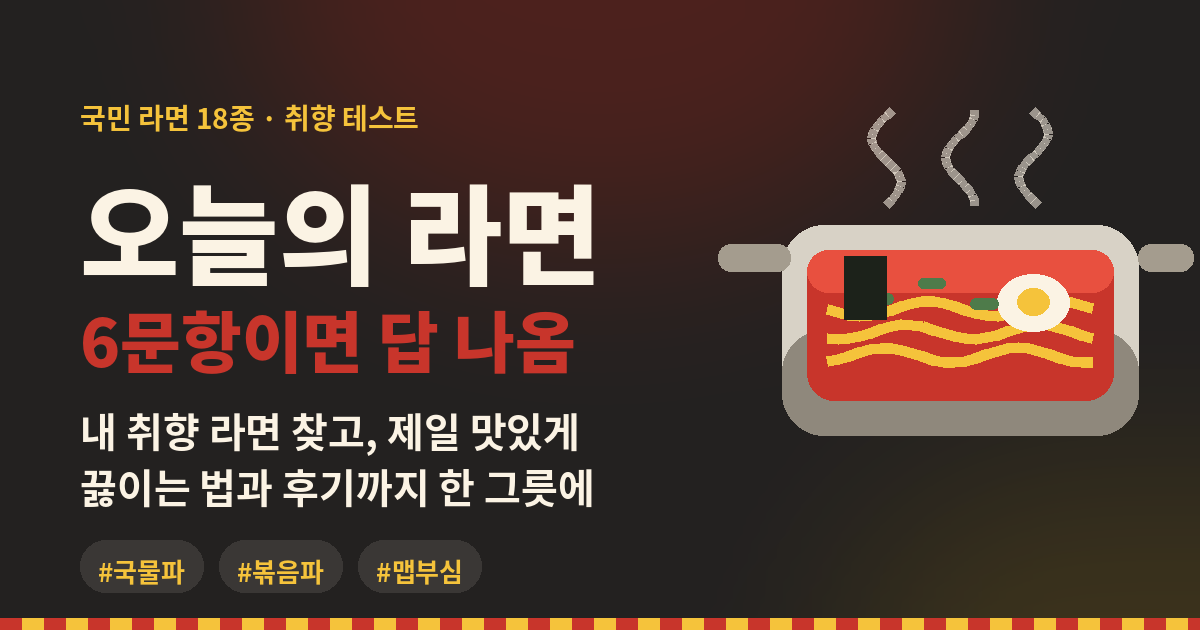
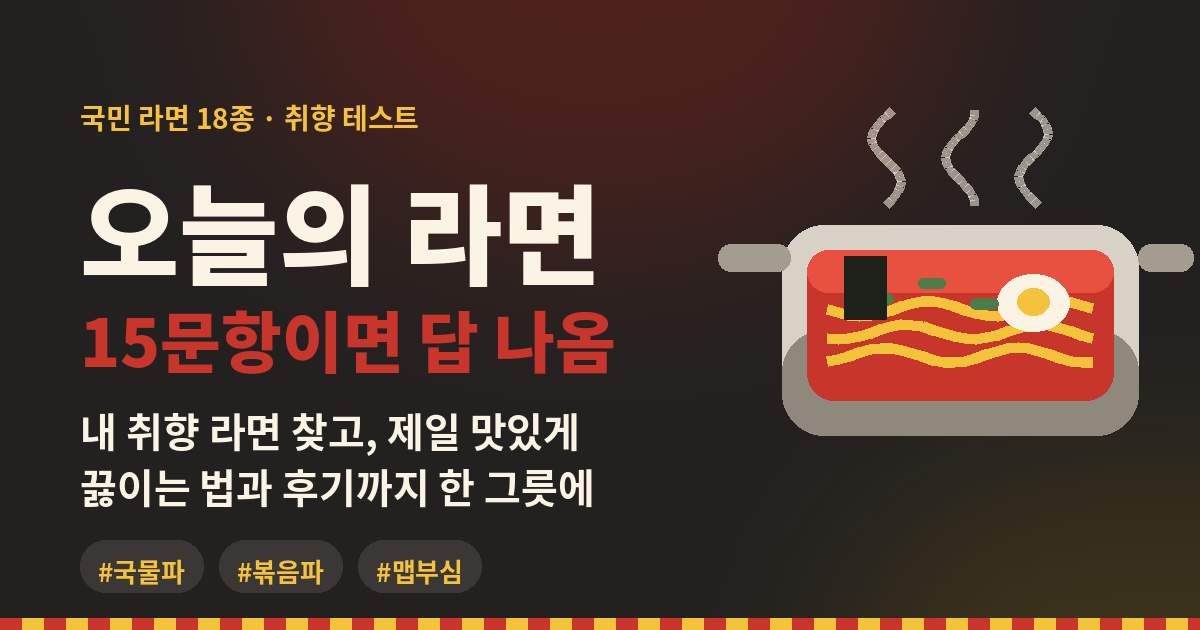
Add files via upload

Changed region(s): [[0.0617, 0.4825, 0.5242, 0.6032]]

diff --git a/index.html b/index.html
@@ -4,18 +4,18 @@
 <meta charset="UTF-8">
 <meta name="viewport" content="width=device-width, initial-scale=1.0">
 <title>오늘의 라면 — 내 취향 라면 찾기</title>
-<meta name="description" content="6가지 질문으로 찾는 내 취향 라면. 맛있게 끓이는 법과 꿀조합, 후기까지 한 번에.">
+<meta name="description" content="15가지 질문으로 찾는 내 취향 라면. 맛있게 끓이는 법과 꿀조합, 후기까지 한 번에.">
 
 <!-- 공유(OG) 메타 -->
 <meta property="og:type" content="website">
-<meta property="og:title" content="오늘의 라면 — 6문항이면 답 나옴">
+<meta property="og:title" content="오늘의 라면 — 15문항이면 답 나옴">
 <meta property="og:description" content="국민 라면 18종 취향 테스트. 내 라면 찾고, 제일 맛있게 끓이는 법과 후기까지 한 그릇에 🍜">
 <meta property="og:url" content="https://jsh0529-beep.github.io/ramen/">
 <meta property="og:image" content="https://jsh0529-beep.github.io/ramen/og.png">
 <meta property="og:image:width" content="1200">
 <meta property="og:image:height" content="630">
 <meta name="twitter:card" content="summary_large_image">
-<meta name="twitter:title" content="오늘의 라면 — 6문항이면 답 나옴">
+<meta name="twitter:title" content="오늘의 라면 — 15문항이면 답 나옴">
 <meta name="twitter:description" content="국민 라면 18종 취향 테스트. 내 라면 찾고, 맛있게 끓이는 법과 후기까지 🍜">
 <meta name="twitter:image" content="https://jsh0529-beep.github.io/ramen/og.png">
 
@@ -219,7 +219,7 @@ footer{margin-top:34px;text-align:center;font-size:11px;color:rgba(251,243,228,.
   <section class="screen on" id="scr-intro">
     <div class="hero">
       <div class="steam">지금 판매 중인 국민 라면 18종</div>
-      <h2>오늘 뭐 끓이지?<br><span class="red">6문항</span>이면 답 나옴</h2>
+      <h2>오늘 뭐 끓이지?<br><span class="red">15문항</span>이면 답 나옴</h2>
       <p>국물파? 볶음파? 매운맛 한계는 어디까지?<br>취향을 고르면 딱 맞는 라면과<br>제일 맛있게 끓이는 법까지 알려드려요.</p>
       <div class="pot-visual">
         <div class="steam-lines">〜 〜 〜</div>
@@ -393,7 +393,11 @@ const RAMEN = [
   combo:"<b>닭가슴살 or 계란</b>을 더하면 든든한 한 끼. 김치보다 <b>단무지</b>가 의외로 잘 어울려요."}
 ];
 
-/* ═══════════ 퀴즈 ═══════════ */
+/* 면발 굵기 속성 */
+const NOODLE_TYPE={neoguri:'thick',jjam:'thick',chapa:'thick',bibim:'thin',teumsae:'thin'};
+RAMEN.forEach(r=>r.noodle=NOODLE_TYPE[r.id]||'mid');
+
+/* ═══════════ 퀴즈 (15문항) ═══════════ */
 const QUESTIONS = [
  {t:"라면 하면 떠오르는 그 장면, 당신의 라면은?",
   o:[
@@ -421,18 +425,73 @@ const QUESTIONS = [
    {e:"🦐", x:"시원한 해물·짬뽕 스타일", w:{base:{seafood:3}}},
    {e:"🧀", x:"짜장·크림처럼 고소하고 꾸덕한 맛", w:{base:{black:2,creamy:2}}}
   ]},
+ {t:"면발은 어떤 스타일이 좋아요?",
+  o:[
+   {e:"🐍", x:"오동통 굵은 면 — 씹는 맛이 있어야지", w:{noodle:{thick:2}}},
+   {e:"〰", x:"표준 면발 — 익숙한 그 굵기", w:{noodle:{mid:2}}},
+   {e:"🧵", x:"가늘고 탱글한 면 — 후루룩 넘어가는 맛", w:{noodle:{thin:2}}}
+  ]},
+ {t:"라면 국물, 마지막엔 어떻게 해요?",
+  o:[
+   {e:"🥣", x:"국물 원샷 — 남기는 건 예의가 아니지", w:{form:{soup:1},rich:2}},
+   {e:"🥄", x:"몇 숟갈만 — 짜니까 적당히", w:{rich:3}},
+   {e:"🚫", x:"면만 건져 먹는 파 — 소스면이 낫겠다", w:{form:{stir:1},rich:4}}
+  ]},
+ {t:"라면 속 계란, 당신의 스타일은?",
+  o:[
+   {e:"🥚", x:"반숙 퐁당 — 노른자는 터뜨리지 마", w:{form:{soup:1}}},
+   {e:"🌪", x:"휘휘 풀어서 계란탕처럼", w:{form:{soup:1},base:{savory:1}}},
+   {e:"🍳", x:"계란후라이 따로 부쳐서 올리기", w:{form:{stir:1}}},
+   {e:"✋", x:"노계란 — 라면 본연의 맛으로", w:{era:{classic:1}}}
+  ]},
+ {t:"라면에 밥, 어떻게 생각해요?",
+  o:[
+   {e:"🍚", x:"당연히 말아야지 — 국물밥이 완성형", w:{form:{soup:2},rich:1}},
+   {e:"🍙", x:"볶음면엔 밥 비비기 — 소스 한 방울도 안 남겨", w:{form:{stir:2},rich:1}},
+   {e:"🙅", x:"면은 면, 밥은 밥 — 섞지 않는다", w:{}}
+  ]},
+ {t:"치즈 추가에 대한 입장은?",
+  o:[
+   {e:"🧀", x:"무조건 추가 — 치즈는 진리", w:{base:{creamy:2}}},
+   {e:"🤏", x:"매운 라면에만 살짝", w:{spice:4}},
+   {e:"❌", x:"국물 라면에 치즈라니, 클래식을 지켜", w:{era:{classic:1},base:{spicy:1}}}
+  ]},
+ {t:"한여름 무더위, 그래도 라면이라면?",
+  o:[
+   {e:"🧊", x:"얼음물에 헹군 비빔면 — 여름엔 이거지", w:{form:{bibim:2},base:{sweet:2}}},
+   {e:"💦", x:"땀 흘리며 뜨거운 국물 — 이열치열", w:{form:{soup:2}}},
+   {e:"🍳", x:"불 앞은 싫고… 볶음면으로 간단히", w:{form:{stir:1}}}
+  ]},
+ {t:"편의점 라면 코너 앞, 당신의 손은?",
+  o:[
+   {e:"🆕", x:"신상 코너 직행 — 안 먹어본 게 죄", w:{era:{new:2}}},
+   {e:"🏆", x:"늘 먹던 그 라면 — 모험은 사양", w:{era:{classic:2}}},
+   {e:"👀", x:"1+1 행사 상품 — 실속이 먼저", w:{}}
+  ]},
+ {t:"해외에서 난리라는 K-라면, 어때요?",
+  o:[
+   {e:"🌍", x:"불닭 시리즈 — 세계인이 우는 그 맛", w:{base:{chicken:1,creamy:1},spice:1}},
+   {e:"🇰🇷", x:"그래도 원조는 국물 라면이지", w:{form:{soup:1},era:{classic:1}}},
+   {e:"🤔", x:"유행은 유행, 내 입맛은 내 입맛", w:{}}
+  ]},
+ {t:"라면 먹기 제일 좋은 시간은?",
+  o:[
+   {e:"🌅", x:"쓰린 아침 해장 — 시원한 국물로 부활", w:{form:{soup:2},base:{spicy:1},rich:2}},
+   {e:"☀", x:"바쁜 점심 한 끼 — 든든하고 빠르게", w:{rich:3}},
+   {e:"🌙", x:"자정의 야식 — 오늘만 산다", w:{rich:4,spice:1}}
+  ]},
  {t:"신상 vs 클래식, 당신의 선택은?",
   o:[
    {e:"🏆", x:"검증된 스테디셀러 — 실패 없는 게 최고", w:{era:{classic:2}}},
    {e:"✨", x:"신상·화제작 먼저 도전하는 얼리어답터", w:{era:{new:3}}},
    {e:"🤷", x:"맛만 있으면 뭐든 OK", w:{}}
   ]},
- {t:"오늘 라면 먹는 상황은?",
+ {t:"마지막! 오늘의 기분은?",
   o:[
-   {e:"🌙", x:"야식 — 죄책감보다 맛이 먼저", w:{rich:1,spice:1}},
-   {e:"🍺", x:"해장 — 속 풀리는 시원한 국물", w:{form:{soup:2},base:{spicy:1}}},
-   {e:"👨👩👧", x:"가족 식사 — 다 같이 먹을 수 있는 맛", w:{spice:-2,era:{classic:1}}},
-   {e:"🎯", x:"혼밥 도전 — 궁금했던 그 라면 정복", w:{era:{new:2},spice:1}}
+   {e:"🫂", x:"위로가 필요해 — 부드럽고 따뜻한 게 좋아", w:{spice:1,base:{savory:1}}},
+   {e:"⚡", x:"스트레스 폭발 — 화끈하게 풀어야지", w:{spice:5}},
+   {e:"🎯", x:"새로운 자극이 필요해", w:{era:{new:2}}},
+   {e:"📼", x:"옛날 생각나는 날 — 추억의 맛이 그리워", w:{era:{classic:2},base:{savory:1}}}
   ]}
 ];
 const COOK_STAGES = [
@@ -440,20 +499,21 @@ const COOK_STAGES = [
  {ic:"🍜", lb:"면 넣기"},{ic:"🥚", lb:"계란 투하"},{ic:"🥢", lb:"완성!"}
 ];
 
-let qi=0, score={form:{soup:0,stir:0,bibim:0}, spice:[], rich:[], base:{}, era:{classic:0,new:0}};
+let qi=0, score={form:{soup:0,stir:0,bibim:0}, spice:[], rich:[], base:{}, era:{classic:0,new:0}, noodle:{}};
 let currentRamen=null, selStars=0;
 
 function show(id){document.querySelectorAll('.screen').forEach(s=>s.classList.remove('on'));document.getElementById(id).classList.add('on');window.scrollTo({top:0,behavior:'smooth'})}
 function goHome(){show('scr-intro')}
 
 function startQuiz(){
-  qi=0; score={form:{soup:0,stir:0,bibim:0}, spice:[], rich:[], base:{}, era:{classic:0,new:0}};
+  qi=0; score={form:{soup:0,stir:0,bibim:0}, spice:[], rich:[], base:{}, era:{classic:0,new:0}, noodle:{}};
   renderQ(); show('scr-quiz');
 }
 function renderQ(){
   const q=QUESTIONS[qi];
+  const stage=Math.min(COOK_STAGES.length-1, Math.floor(qi/QUESTIONS.length*COOK_STAGES.length));
   const steps=document.getElementById('cookSteps');
-  steps.innerHTML=COOK_STAGES.map((s,i)=>`<div class="cook-step ${i<qi?'done':i===qi?'now':''}"><span class="ic">${s.ic}</span><span class="lb">${s.lb}</span></div>`).join('');
+  steps.innerHTML=COOK_STAGES.map((s,i)=>`<div class="cook-step ${i<stage?'done':i===stage?'now':''}"><span class="ic">${s.ic}</span><span class="lb">${s.lb}</span></div>`).join('');
   document.getElementById('cookBarFill').style.width=(qi/QUESTIONS.length*100)+'%';
   document.getElementById('qNum').textContent=`STEP ${qi+1} / ${QUESTIONS.length}`;
   document.getElementById('qTitle').textContent=q.t;
@@ -466,6 +526,7 @@ function answer(i){
   if(typeof w.rich==='number') score.rich.push(w.rich);
   if(w.base) for(const k in w.base) score.base[k]=(score.base[k]||0)+w.base[k];
   if(w.era) for(const k in w.era) score.era[k]+=w.era[k];
+  if(w.noodle) for(const k in w.noodle) score.noodle[k]=(score.noodle[k]||0)+w.noodle[k];
   qi++;
   if(qi<QUESTIONS.length) renderQ(); else finish();
 }
@@ -480,6 +541,7 @@ function finish(){
     s-=Math.abs(r.rich-wantRich)*1.0;
     s+=(score.base[r.base]||0)*1.6;
     s+=(score.era[r.era]||0)*1.1;
+    s+=(score.noodle[r.noodle]||0)*1.2;
     s+=Math.random()*0.5; /* 동점 셔플 */
     return {r,s};
   }).sort((a,b)=>b.s-a.s);
